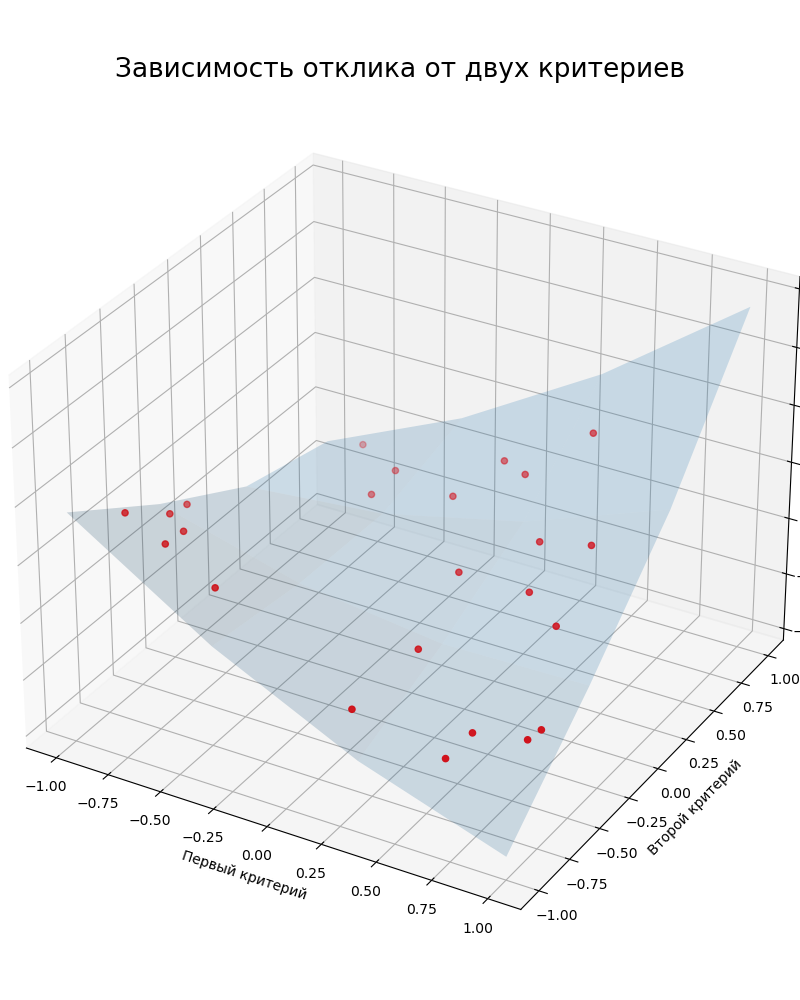
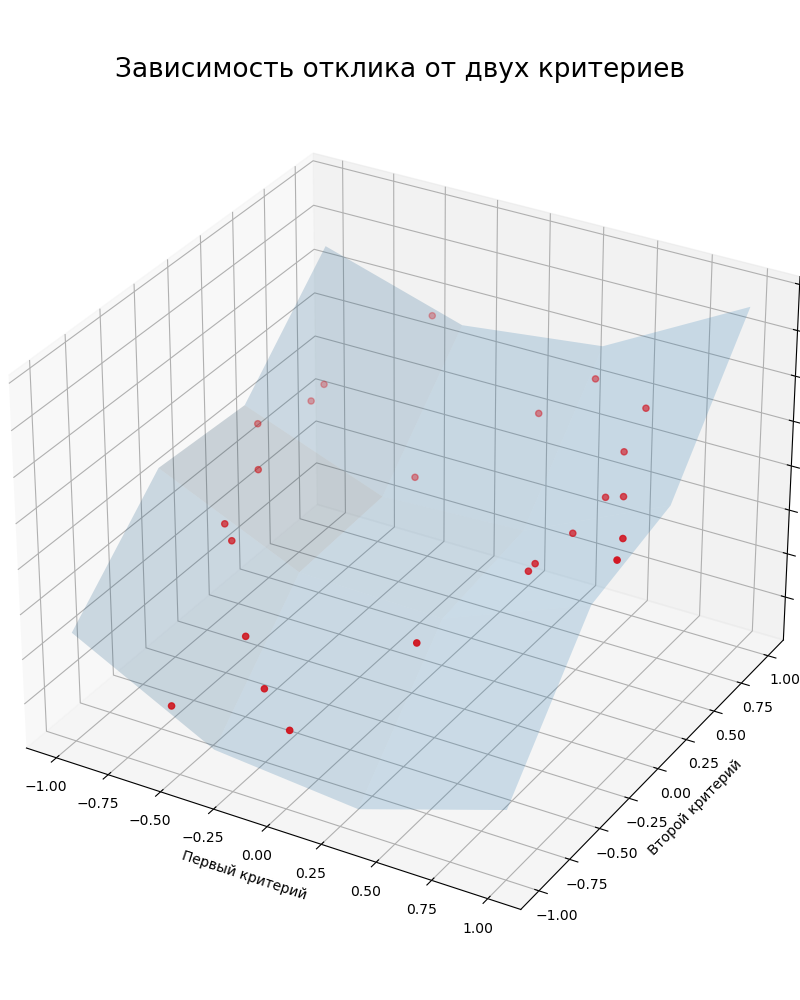
Changed theta coefficients and regenerated

diff --git a/generator.py b/generator.py
@@ -90,4 +90,4 @@ class Generator(object):
         for i in range(self.n):
             current_iter = [{'X1': self.x[i][0], 'X2': self.x[i][1], 'U': self.u[i], 'Y': self.y[i]}]
             data = data.append(current_iter, ignore_index=True)
-        data.to_excel(filename)
+        #data.to_excel(filename)

diff --git a/main.py b/main.py
@@ -7,7 +7,7 @@ def function(x, theta):
 
 
 if __name__ == '__main__':
-    config = [2, 6, [0, 0.1, 0.2, 0.3, 0.2, 0.1], 0.1]
+    config = [2, 6, [0, 0.1, 3, 0.1, 0.1, 5], 0.1]
     with Generator(function, config, 'data.xlsx') as gen:
         gen.draw(function, config[2])
         gen.draw_separately()
